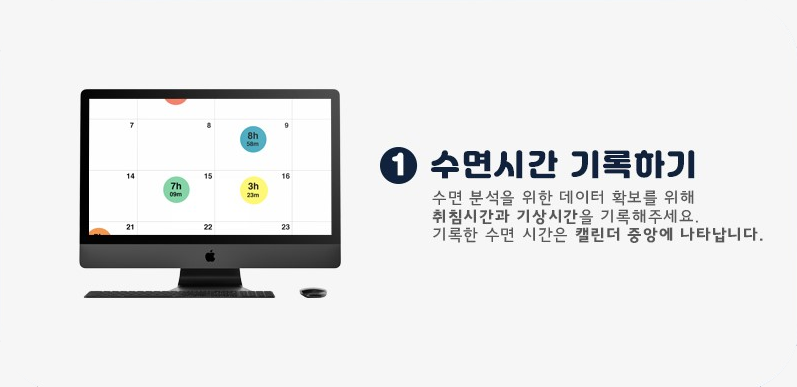
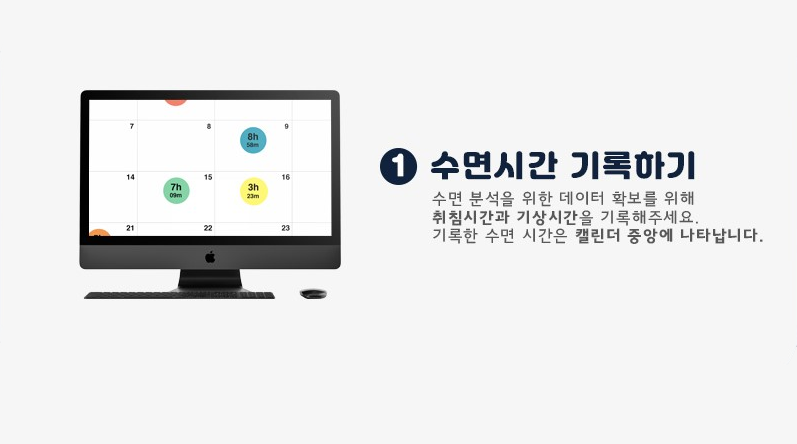
가이드화면 수정

diff --git a/src/pages/UseInfo.js b/src/pages/UseInfo.js
@@ -38,12 +38,11 @@ const Backgroud = styled.div`
   flex-direction: column;
   align-items: center;
   width: 100%;
-  margin-bottom: 5rem;
   ${(props) => (props.bg ? `background-color: ${props.bg};` : "")}
 `;
 
 const BackImg = styled.img`
-  width: 70%;
+  width: 50%;
   z-index: 1;
   @media (max-width: 414px) {
     width: 100%;
